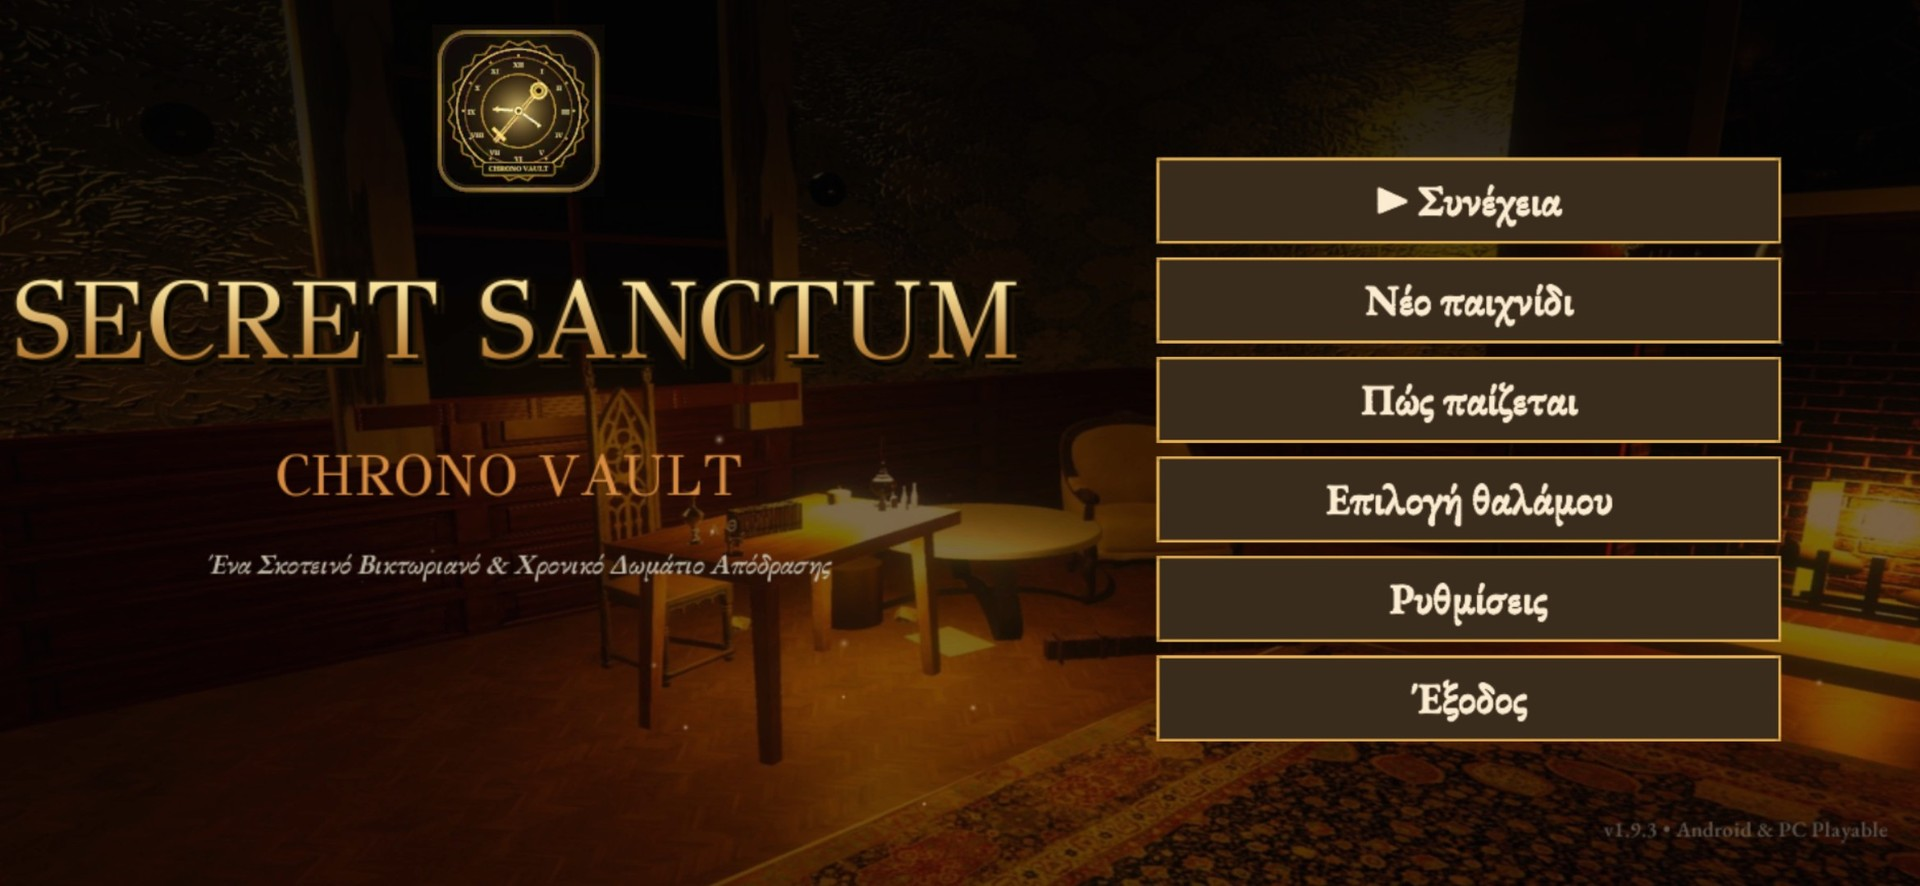
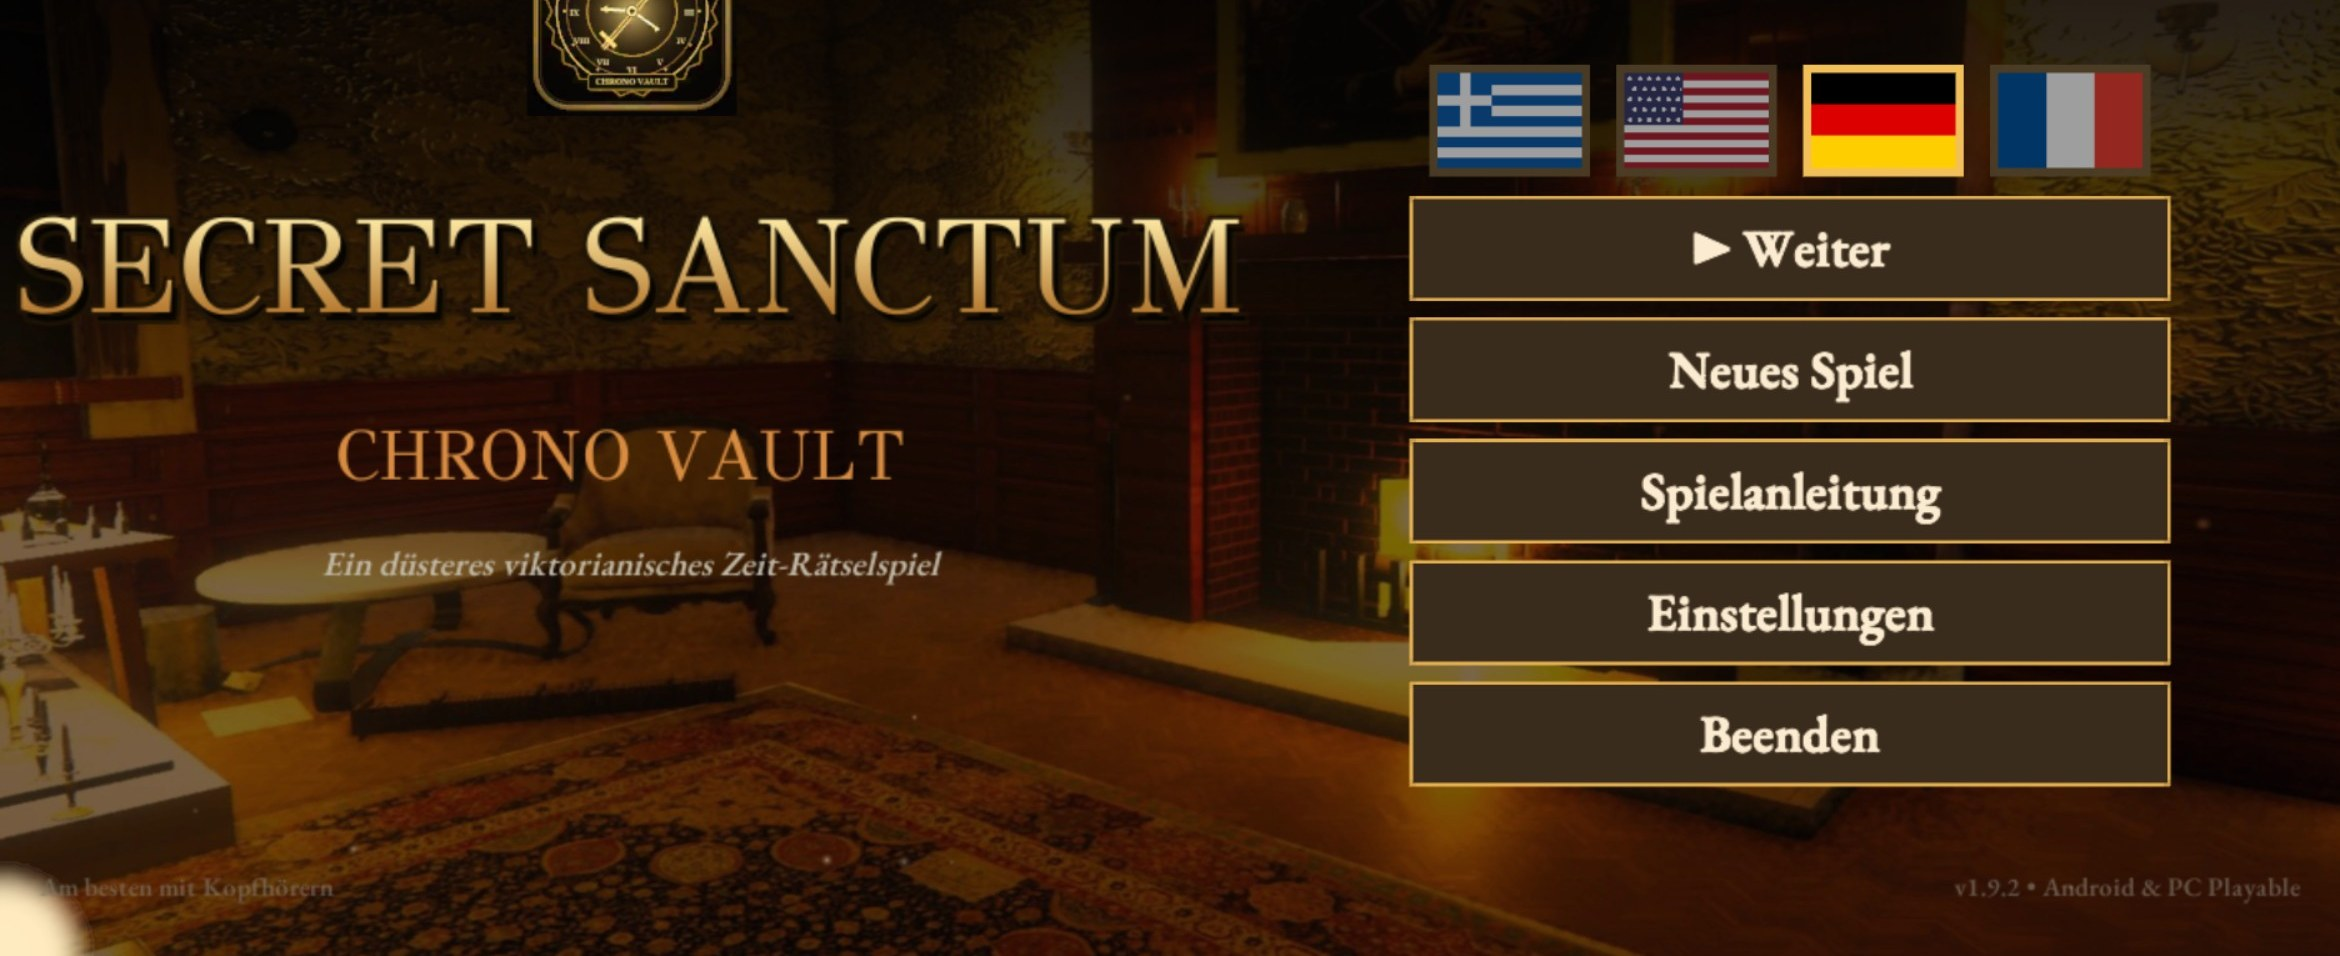
README: 2.4.0 (Hieronymus, transitions), new menu and Hieronymus screenshots

diff --git a/README.md b/README.md
@@ -42,10 +42,11 @@
   </tr>
   <tr>
     <td><img src="assets/screenshots/05-another-era.jpg" alt="Άλλη εποχή"/><br/><sub><b>Το ίδιο δωμάτιο, άλλη εποχή.</b> Ο Χρονικός Φακός αλλάζει τα πάντα.</sub></td>
-    <td><img src="assets/screenshots/06-menu.jpg" alt="Το μενού"/><br/><sub><b>Το μενού.</b> Ελληνικά ή αγγλικά, με μία επιλογή.</sub></td>
+    <td><img src="assets/screenshots/06-menu.jpg" alt="Το μενού"/><br/><sub><b>Το μενού.</b> Τέσσερις γλώσσες, με ένα πάτημα σε σημαία.</sub></td>
   </tr>
   <tr>
-    <td colspan="2" align="center"><img src="assets/screenshots/07-rift-hall.jpg" alt="Η Αίθουσα του Ρήγματος" width="50%"/><br/><sub><b>Η Αίθουσα του Ρήγματος.</b> Ένα δωμάτιο, δύο χρονιές και μια γραμμή που γυρίζει.</sub></td>
+    <td><img src="assets/screenshots/07-rift-hall.jpg" alt="Η Αίθουσα του Ρήγματος"/><br/><sub><b>Η Αίθουσα του Ρήγματος.</b> Ένα δωμάτιο, δύο χρονιές και μια γραμμή που γυρίζει.</sub></td>
+    <td><img src="assets/screenshots/08-hieronymus.jpg" alt="Ο Ιερώνυμος Vance"/><br/><sub><b>Ο Ιερώνυμος Vance.</b> Ο πρόγονος του πορτρέτου βαριέται εδώ και 170 χρόνια.</sub></td>
   </tr>
 </table>
 
@@ -63,7 +64,8 @@
 - 🔠 **Μεγάλα, ευανάγνωστα γράμματα** στο κινητό, και ένα μάτι που κρύβει τα εργαλεία, για να βλέπεις καθαρά το δωμάτιο.
 - 🌍 **Τέσσερις γλώσσες:** ελληνικά, αγγλικά, γερμανικά και γαλλικά (κείμενα και αφήγηση). Η γλώσσα αλλάζει με ένα πάτημα σε σημαία, από το αρχικό μενού.
 - 🎙 **Αφήγηση** με κινηματογραφικές σκηνές.
-- 💡 **Βοήθειες** όταν κολλήσεις, που σε σπρώχνουν χωρίς να σου χαλάνε τη λύση.
+- 🖼 **Ο Ιερώνυμος Vance**, ο πρόγονος του πορτρέτου (1790), μιλάει: ματαιόδοξος, ειρωνικός, και ο μόνος που δεν λέει ποτέ ψέματα. Η βοήθεια έρχεται από αυτόν: το μενταγιόν του λάμπει όταν κολλήσεις, και σε σπρώχνει χωρίς να σου χαλάει τη λύση.
+- ✋ **Ό,τι συμβαίνει, φαίνεται.** Το βιβλίο γλιστράει και φανερώνει το κλειδί, το γρανάζι βγαίνει από το ρολόι. Το παίρνεις εσύ.
 - 📳 **Δονήσεις** σε μοχλούς, διακόπτες και κλειδαριές.
 - 📶 **Παίζεται χωρίς internet.** Χωρίς λογαριασμό, χωρίς εγγραφή.
 
@@ -125,7 +127,8 @@ And the past is not the only thing hiding in this room.
 - 🔠 **Large, readable text** on phones, and an eye button that hides the tools so you can see the room clearly.
 - 🌍 **Four languages:** Greek, English, German and French (text and narration). The language changes with one tap on a flag, from the main menu.
 - 🎙 **Narration** with cinematic scenes.
-- 💡 **Hints** that nudge you without spoiling the answer.
+- 🖼 **Hieronymus Vance**, the ancestor in the portrait (1790), speaks: vain, dry, and the only one who never lies. Help comes from him: his medallion glows when you are stuck, and he nudges you without spoiling the answer.
+- ✋ **Whatever happens is shown.** The book slides out to reveal the key, the gear comes out of the clock. You take it yourself.
 - 📳 **Haptics** on levers, switches and locks.
 - 📶 **Plays offline.** No account, no sign-up.
 
